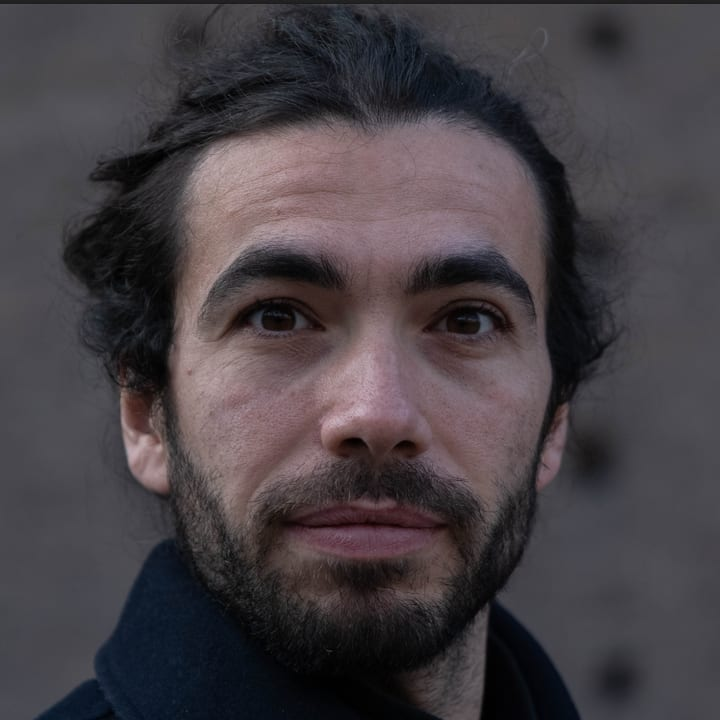
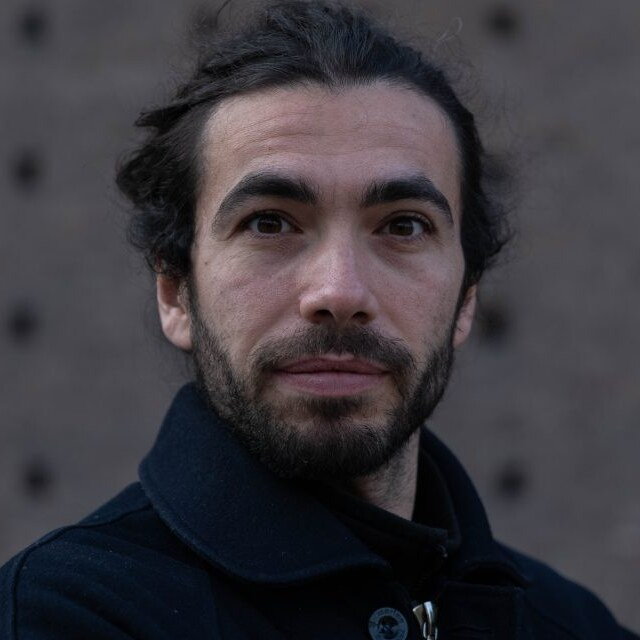
Let the editor portraits be seen, and give small sizes their own mark
The portraits on /about have never displayed. The files were served fine,
but images.localPatterns listed only /api/media/file/** and /media/**, so
the optimizer refused /about/** with a 400 and the page showed two broken
images. The photo() helper was not at fault: it found the files, so the
monogram fallback never fired and nothing looked wrong in the markup.

New photographs for both editors. Carlo's is square already; Alessandro's
is landscape against a square slot, so it is cropped to head and shoulders
to sit at the same scale beside Carlo's rather than left to the browser's
centre crop.

The favicons now come from a mark drawn for the size: the full logo's dot
grid turns to a smudge at 16px. The Apple touch icon moves to it as well —
iOS draws that file at roughly 60pt on a home screen, which is small enough
to muddy the same way. The header, RSS, JSON-LD and social card keep the
detailed logo.

diff --git a/next.config.ts b/next.config.ts
@@ -26,6 +26,11 @@ const nextConfig: NextConfig = {
       {
         pathname: '/media/**',
       },
+      // The editor portraits on /about. Without this the optimizer answers 400
+      // and the photos never render, even though the files are served fine.
+      {
+        pathname: '/about/**',
+      },
     ],
     qualities: [75, 90, 100],
     remotePatterns: [
